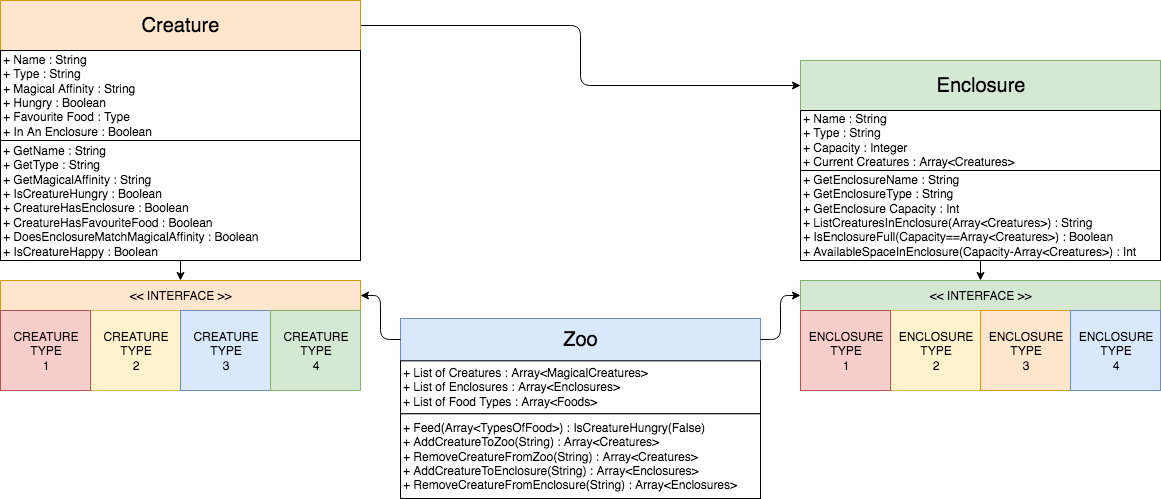
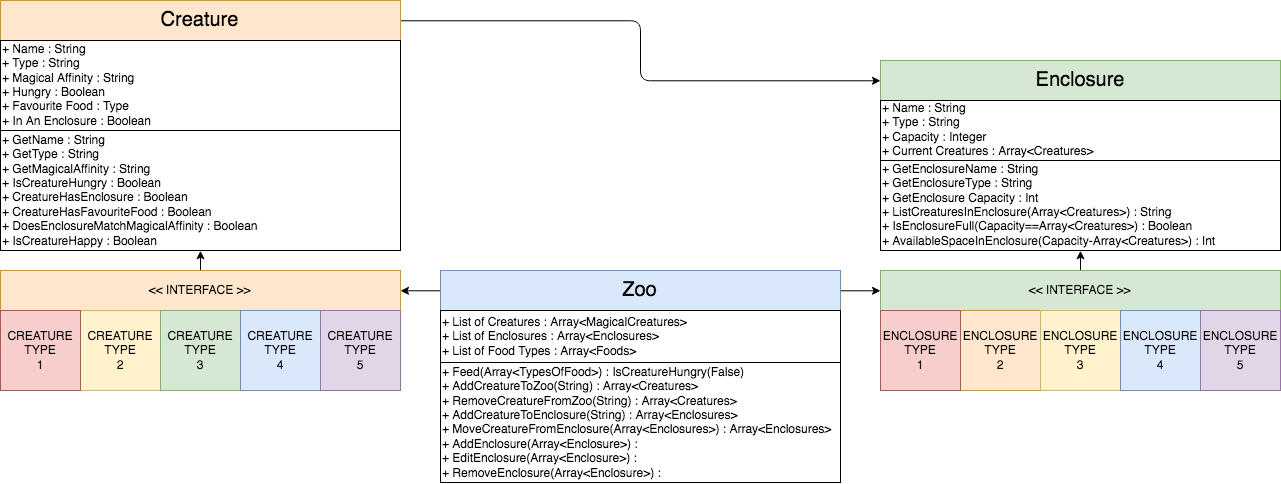
Updated Planning Files

Changed region(s): [[0.0, 0.0, 1.0, 1.0]]

diff --git a/Planning/BriefAnalysis.md b/Planning/BriefAnalysis.md
@@ -5,38 +5,38 @@ MoS-CoW method : MUST have, SHOULD have, COULD have, WONT have but would like.
 ## MUST have.
 ### Minimum Viable Product Requirements:
 
-* Zoo has animals.
-* Zoo can feed animals.
-* Zoo can add animals.
-* Zoo can remove animals.
-* Zoo can add animals to an enclosure.
-* Zoo can remove animals from an enclosure.
-* Zoo can move animals to a different enclosure.
+* Zoo has creatures.
+* Zoo can feed creatures.
+* Zoo can add creatures.
+* Zoo can remove creatures.
+* Zoo can add creatures to an enclosure.
+* Zoo can remove creatures from an enclosure.
+* Zoo can move creatures to a different enclosure.
 * Zoo can add enclosures.
 * Zoo can remove enclosures.
 
 ## SHOULD have.
 
-* Animal Hungry/Not Hungry trait.
-* Animal has friends/enemies trait.
-* Animal has enclosure requirements.
+* Creature Hungry/Not Hungry trait.
+* Creature has friends/enemies trait.
+* Creature has enclosure requirements.
 * Zoo can create different types of enclosure.
 
 ## COULD have.
 
-* Animal has food types it likes.
-* Animal has food types it dislikes.
+* Creature has food types it likes.
+* Creature has food types it dislikes.
 
 ## WONT have, but WANT to add.
 ### Extras.
 
-* Zoo cannot place animals that would eat each other in the same enclosure.
+* Zoo cannot place creatures that would eat each other in the same enclosure.
   + Zoo must therefore have list of animal predator/prey traits.
-  + Animals will have to have predator/prey traits.
+  + Creatures will have to have predator/prey traits.
 
-* Animal babies can be sold to other zoos.
-  + Zoo must be able to breed animals.
-  + Animals will need genders? and/or breeding traits.
+* Creature babies can be sold to other zoos.
+  + Zoo must be able to breed creatures.
+  + Creatures will need genders? and/or breeding traits.
   + Hybrids?
 
 * Visitors can enter / exit zoo if there are tickets left.
@@ -44,4 +44,4 @@ MoS-CoW method : MUST have, SHOULD have, COULD have, WONT have but would like.
   + Guests must have money.
 
 * View the total income of the zoo.
-* Animals can randomly go on a rampage and break out from their enclosures.
+* Creatures can randomly go on a rampage and break out from their enclosures.

diff --git a/Planning/PlanningNotes.md b/Planning/PlanningNotes.md
@@ -1,7 +1,27 @@
-# Things To Do
+# To Do List :
 
-# Things To Fix
+### Add
 
-# Things To Add
+*Creature.java*
+- Creature Array
+- Creature Interface
 
-# Things To Remove
+*Enclosure.java*
+- Enclosure Array
+- Enclosure Interface
+
+*Zoo.java*
+- Tests linking Creature.java and Enclosure.java
+- MVP list
+  - List creatures
+  - Add creatures
+  - Remove creatures
+  - Feed creatures
+  - Add creature to an enclosure
+  - Move creature from an enclosure
+  - Add enclosure
+  - Remove enclosure
+
+### Remove
+- Hardcoded Creatures
+- Hardcoded Enclosures
